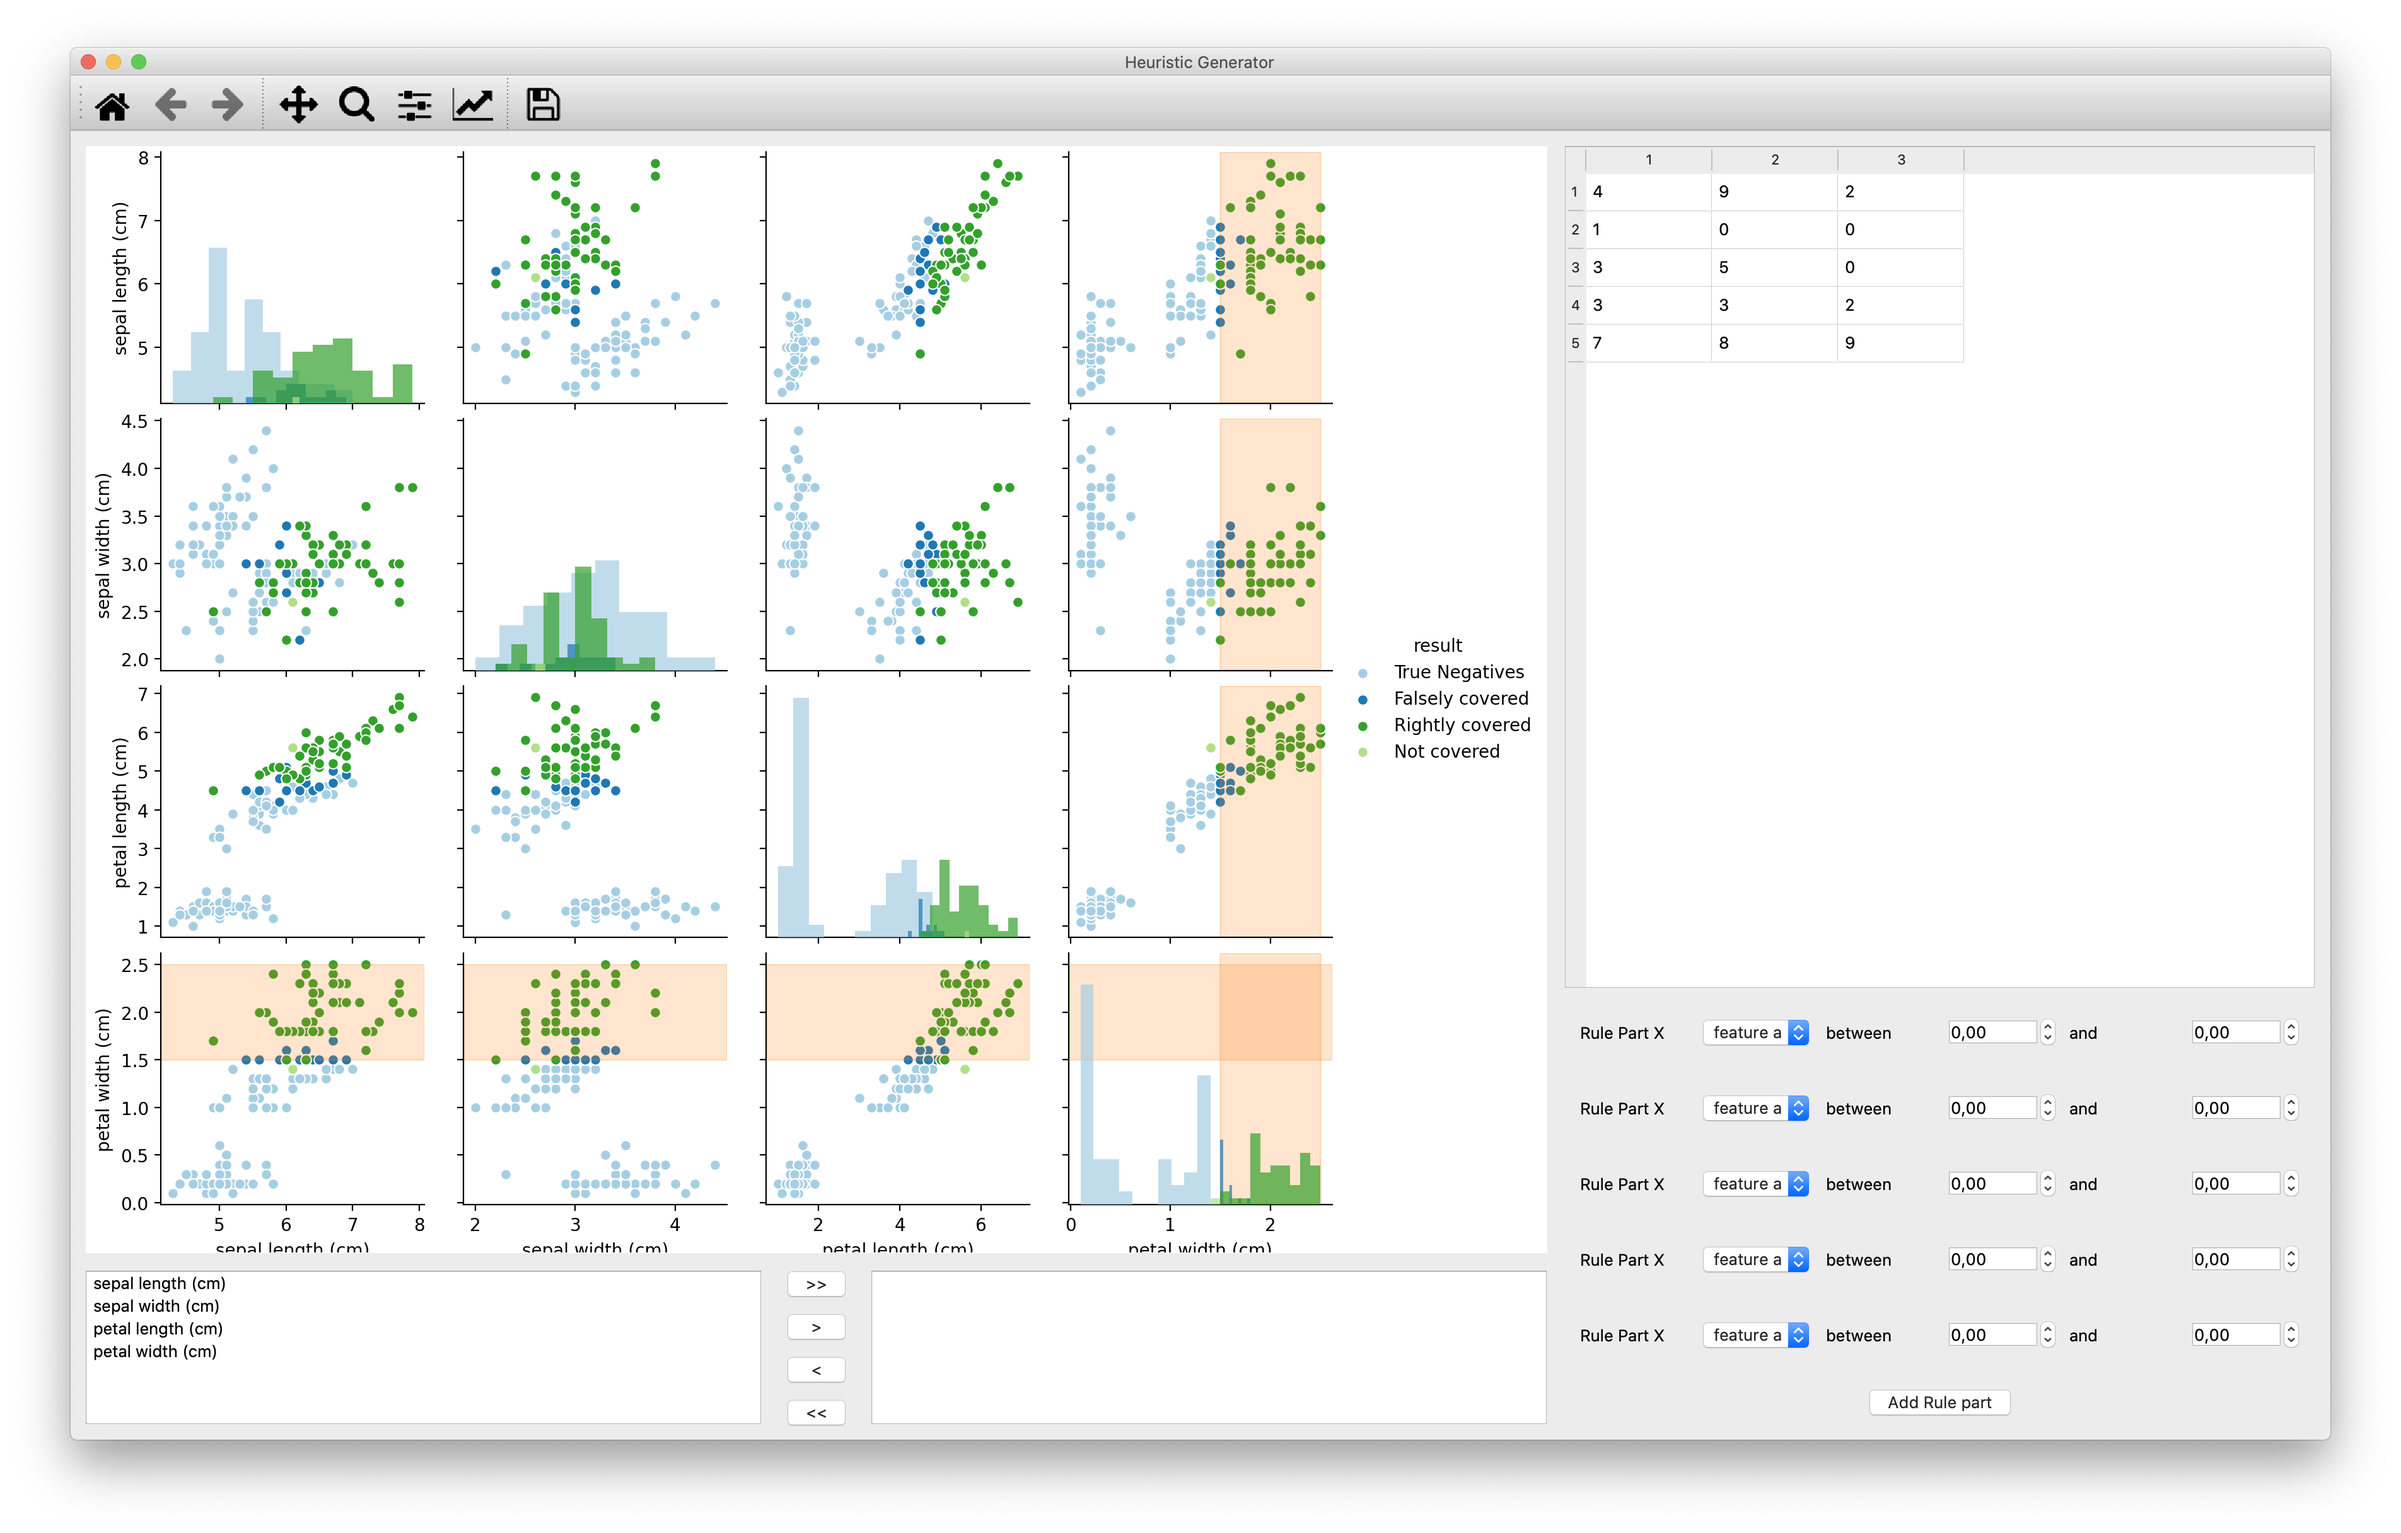
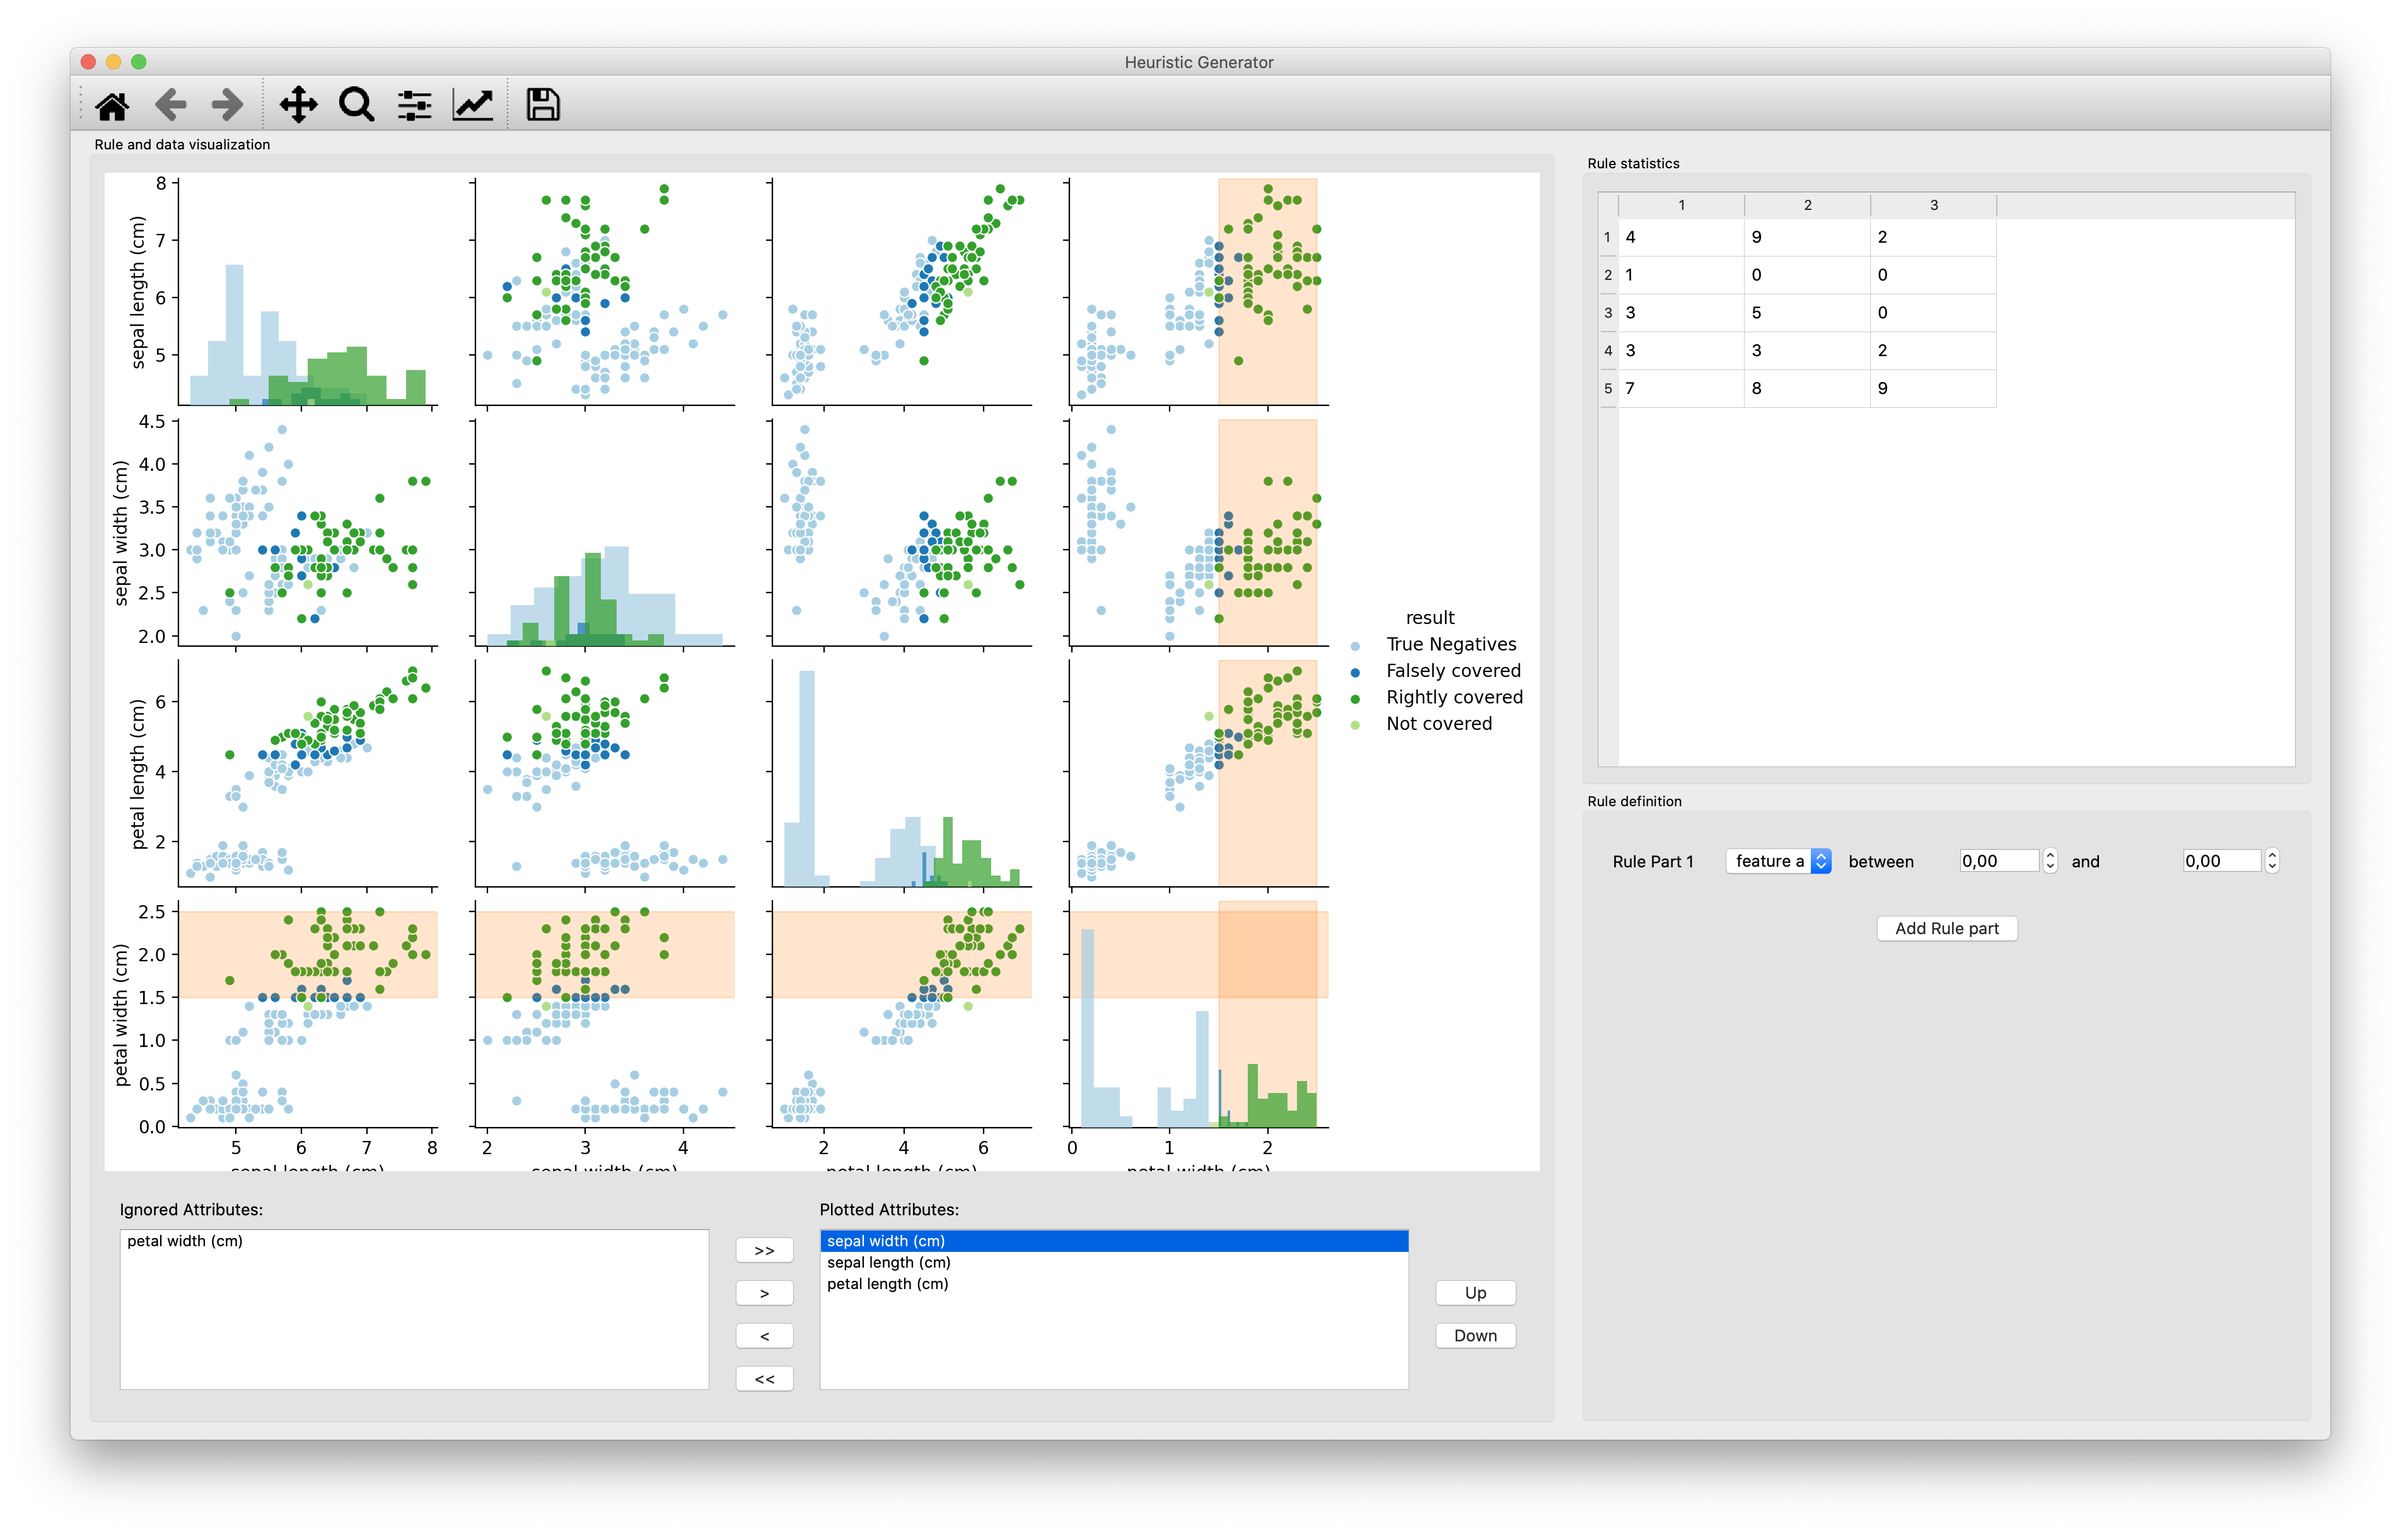
Adds a plot attr widget with logic and therefore closes #4

diff --git a/src/plot_attr_selection_widget.py b/src/plot_attr_selection_widget.py
@@ -1,0 +1,134 @@
+from PySide2 import QtWidgets, QtGui, QtCore
+
+class PlotAttrSelectionWidget(QtWidgets.QWidget):
+
+    def __init__(self, parent=None, attributes=['feature a', 'feature b', 'feature c'], rule_number=-1):
+        QtWidgets.QWidget.__init__(self, parent)
+                # List Widgets
+
+        list_box = QtWidgets.QHBoxLayout()
+
+        label_ign = QtWidgets.QLabel('Ignored Attributes:')
+        self.list_ign = QtWidgets.QListWidget()
+        self.list_ign.addItems(attributes)
+        
+        list_ign_layout = QtWidgets.QVBoxLayout()
+        list_ign_layout.addWidget(label_ign)
+        list_ign_layout.addWidget(self.list_ign)
+
+        self.list_plot = QtWidgets.QListWidget()
+        list_plot_layout = QtWidgets.QVBoxLayout()
+        label_plot = QtWidgets.QLabel('Plotted Attributes:')
+        list_plot_layout.addWidget(label_plot)
+        list_plot_layout.addWidget(self.list_plot)
+
+        button_layout = QtWidgets.QVBoxLayout()
+        self.btn_moveall2plot = QtWidgets.QPushButton(">>")
+        self.btn_move2plot = QtWidgets.QPushButton(">")
+        self.btn_move2ign = QtWidgets.QPushButton("<")
+        self.btn_moveall2ign = QtWidgets.QPushButton("<<")
+
+        button_layout.addSpacing(30)
+        button_layout.addWidget(self.btn_moveall2plot)
+        button_layout.addWidget(self.btn_move2plot)
+        button_layout.addWidget(self.btn_move2ign)
+        button_layout.addWidget(self.btn_moveall2ign)
+        button_layout.addStretch(stretch=1)
+
+        self.btn_up = QtWidgets.QPushButton("Up")
+        self.btn_down = QtWidgets.QPushButton("Down")
+
+        btn_up_down_layout = QtWidgets.QVBoxLayout()
+        btn_up_down_layout.addSpacing(30)
+        btn_up_down_layout.addStretch(stretch=1)
+        btn_up_down_layout.addWidget(self.btn_up)
+        btn_up_down_layout.addWidget(self.btn_down)
+        btn_up_down_layout.addStretch(stretch=1)
+
+        list_box.addLayout(list_ign_layout)
+        list_box.addLayout(button_layout)
+        list_box.addLayout(list_plot_layout)
+        list_box.addLayout(btn_up_down_layout)
+
+        self.setLayout(list_box)
+        
+        self.connections()
+        self.set_button_status()
+
+    def move_all2plot(self):
+        while self.list_ign.count() > 0:
+            item = self.list_ign.takeItem(0)
+            self.list_plot.addItem(item)
+        self.set_button_status()
+
+    def move_all2ignore(self):
+        while self.list_plot.count() > 0:
+            item = self.list_plot.takeItem(0)
+            self.list_ign.addItem(item)
+        self.set_button_status()
+    
+    def move_sel2plot(self):
+        item = self.list_ign.takeItem(self.list_ign.currentRow())
+        self.list_plot.addItem(item)
+        self.set_button_status()
+
+    def move_sel2ignore(self):
+        item = self.list_plot.takeItem(self.list_plot.currentRow())
+        self.list_ign.addItem(item)
+        self.set_button_status()
+
+    def button_up(self):
+        row = self.list_plot.currentRow()
+        new_row = row - 1
+        item = self.list_plot.takeItem(row)
+        self.list_plot.insertItem(new_row, item)
+        self.list_plot.setCurrentRow(new_row)
+        self.list_plot.repaint()
+
+    def button_down(self):
+        row = self.list_plot.currentRow()
+        new_row = row + 1
+        item = self.list_plot.takeItem(row)
+        self.list_plot.insertItem(new_row, item)
+        self.list_plot.setCurrentRow(new_row)
+        self.list_plot.repaint()
+    
+    def selection_empty(self, list_widget):
+        return len(list_widget.selectedItems()) == 0
+    
+    def list_empty(self, list_widget):
+        return list_widget.count() == 0
+
+    def set_button_status(self):
+        self.btn_up.setDisabled(self.selection_empty(self.list_plot) or
+                                   (self.list_plot.currentRow() == 0))
+        self.btn_down.setDisabled(self.selection_empty(self.list_plot) or
+                                   (self.list_plot.currentRow() == self.list_plot.count()-1))
+        
+        self.btn_move2plot.setDisabled(self.selection_empty(self.list_ign) or self.list_empty(self.list_ign))
+        self.btn_moveall2plot.setDisabled(self.list_empty(self.list_ign))
+        self.btn_move2ign.setDisabled(self.selection_empty(self.list_plot) or self.list_empty(self.list_plot))
+        self.btn_moveall2ign.setDisabled(self.list_empty(self.list_plot))
+
+        for btn in [self.btn_move2plot,
+                    self.btn_moveall2plot,
+                    self.btn_move2ign,
+                    self.btn_moveall2ign,
+                    self.btn_up,
+                    self.btn_down]:
+            btn.repaint()
+
+    def connections(self):
+        # update button status
+        self.list_ign.itemSelectionChanged.connect(self.set_button_status)
+        self.list_plot.itemSelectionChanged.connect(self.set_button_status)
+
+        self.btn_moveall2plot.clicked.connect(self.move_all2plot)
+        self.btn_move2plot.clicked.connect(self.move_sel2plot)
+        self.btn_move2ign.clicked.connect(self.move_sel2ignore)
+        self.btn_moveall2ign.clicked.connect(self.move_all2ignore)
+
+        self.btn_up.clicked.connect(self.button_up)
+        self.btn_down.clicked.connect(self.button_down)
+
+

diff --git a/src/app.py b/src/app.py
@@ -8,6 +8,7 @@ from matplotlib.backends.backend_qt5agg import (
         FigureCanvas, NavigationToolbar2QT as NavigationToolbar)
 from rule_part_widget import RulePartWidget
 from rule_table_model import RuleTableModel
+from plot_attr_selection_widget import PlotAttrSelectionWidget
 
 class MainWindow(QMainWindow):
     
@@ -44,7 +45,6 @@ class MainWindow(QMainWindow):
 
         self.file_menu.addAction(exit_action)
 
-
         self._main = QtWidgets.QWidget()
         self.setCentralWidget(self._main)
         self.layout = QtWidgets.QHBoxLayout(self._main)
@@ -61,7 +61,7 @@ class MainWindow(QMainWindow):
         right_col = self.setup_right_col()
 
         self.layout.addWidget(left_col, stretch=2)
-        self.layout.addWidget(right_col, stretch=1)
+        self.layout.addLayout(right_col, stretch=1)
 
     def setup_left_col(self):
 
@@ -74,29 +74,10 @@ class MainWindow(QMainWindow):
 
         canvas.updateGeometry()
 
-        # List Widgets
-        list_box = QtWidgets.QHBoxLayout()
-        list1 = QtWidgets.QListWidget()
-
-        list1.addItems(self.scatter_cols)
-        list2 = QtWidgets.QListWidget()
-        list_box.addWidget(list1)
-        button_layout = QtWidgets.QVBoxLayout()
-        mButtonToSelected = QtWidgets.QPushButton(">>")
-        mBtnMoveToAvailable = QtWidgets.QPushButton(">")
-        mBtnMoveToSelected = QtWidgets.QPushButton("<")
-        mButtonToAvailable = QtWidgets.QPushButton("<<")
-        button_layout.addStretch(stretch=1)
-        button_layout.addWidget(mButtonToSelected)
-        button_layout.addWidget(mBtnMoveToAvailable)
-        button_layout.addWidget(mBtnMoveToSelected)
-        button_layout.addWidget(mButtonToAvailable)
-        button_layout.addStretch(stretch=1)
-        list_box.addLayout(button_layout)
-        list_box.addWidget(list2)
+        plot_attr_selection = PlotAttrSelectionWidget(parent=self, attributes=self.scatter_cols)
 
         left_col_layout.addWidget(canvas)
-        left_col_layout.addLayout(list_box)
+        left_col_layout.addWidget(plot_attr_selection)
         col_box.setLayout(left_col_layout)
         return col_box
 
@@ -109,7 +90,10 @@ class MainWindow(QMainWindow):
             self.rule_part_layout.insertWidget(n_rule_parts, rule_part)
 
     def setup_right_col(self):
-        col_box = QtWidgets.QGroupBox('Rule definition')
+
+        right_col_layout = QtWidgets.QVBoxLayout()
+        statistics_box = QtWidgets.QGroupBox('Rule statistics')
+        statistics_layout = QtWidgets.QVBoxLayout()
         # rule table
         table = QtWidgets.QTableView()
 
@@ -123,12 +107,12 @@ class MainWindow(QMainWindow):
 
         model = RuleTableModel(data)
         table.setModel(model)
+        statistics_layout.addWidget(table)
+        statistics_box.setLayout(statistics_layout)
 
-        right_col_layout = QtWidgets.QVBoxLayout()
-
+        rule_part_box = QtWidgets.QGroupBox('Rule definition')
         self.rule_part_layout = QtWidgets.QVBoxLayout()
         self.add_rule_part()
-
         add_rule_btn = QtWidgets.QPushButton('Add Rule part')
         add_rule_btn.clicked.connect(self.add_rule_part)
         btn_layout = QtWidgets.QHBoxLayout()
@@ -137,12 +121,12 @@ class MainWindow(QMainWindow):
         btn_layout.addStretch(stretch=1)
         self.rule_part_layout.addLayout(btn_layout)
         self.rule_part_layout.addStretch(stretch=1)
+        rule_part_box.setLayout(self.rule_part_layout)
 
-        right_col_layout.addWidget(table, stretch=1)
-        right_col_layout.addLayout(self.rule_part_layout, stretch=1)
+        right_col_layout.addWidget(statistics_box, stretch=1)
+        right_col_layout.addWidget(rule_part_box, stretch=1)
 
-        col_box.setLayout(right_col_layout)
-        return col_box
+        return right_col_layout
 
 if __name__ == '__main__':
     # Create the Qt Application
